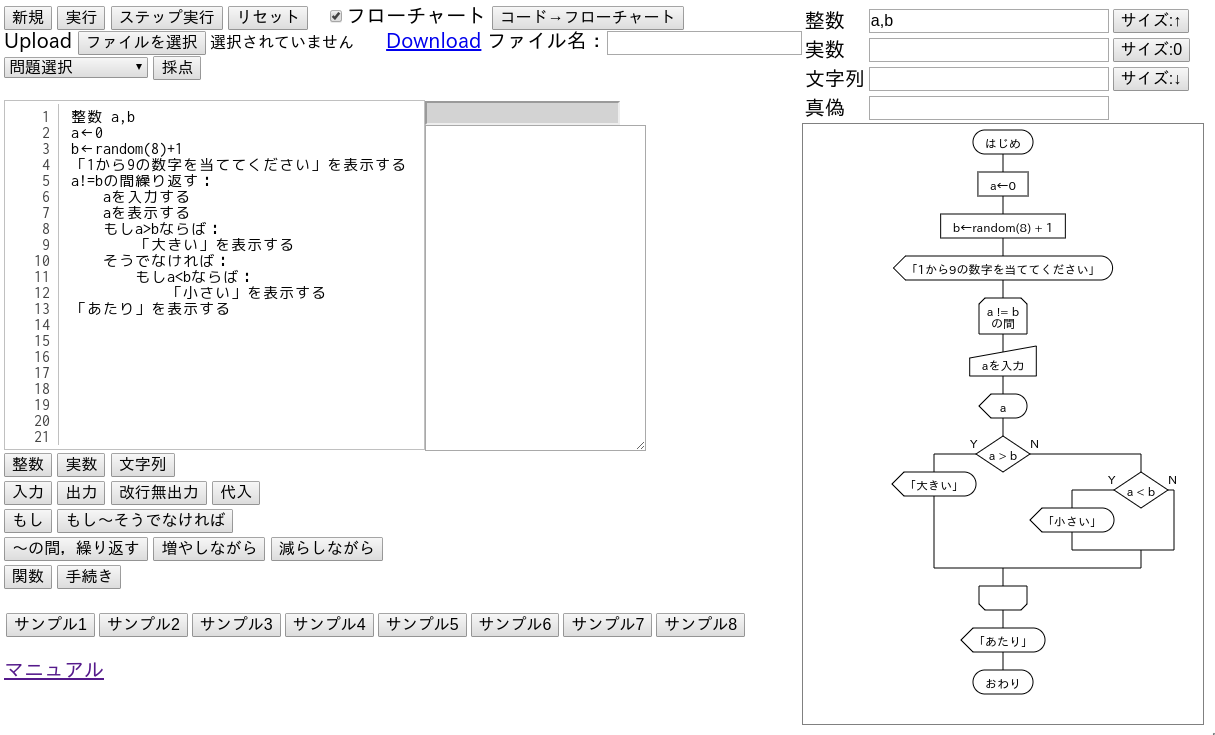
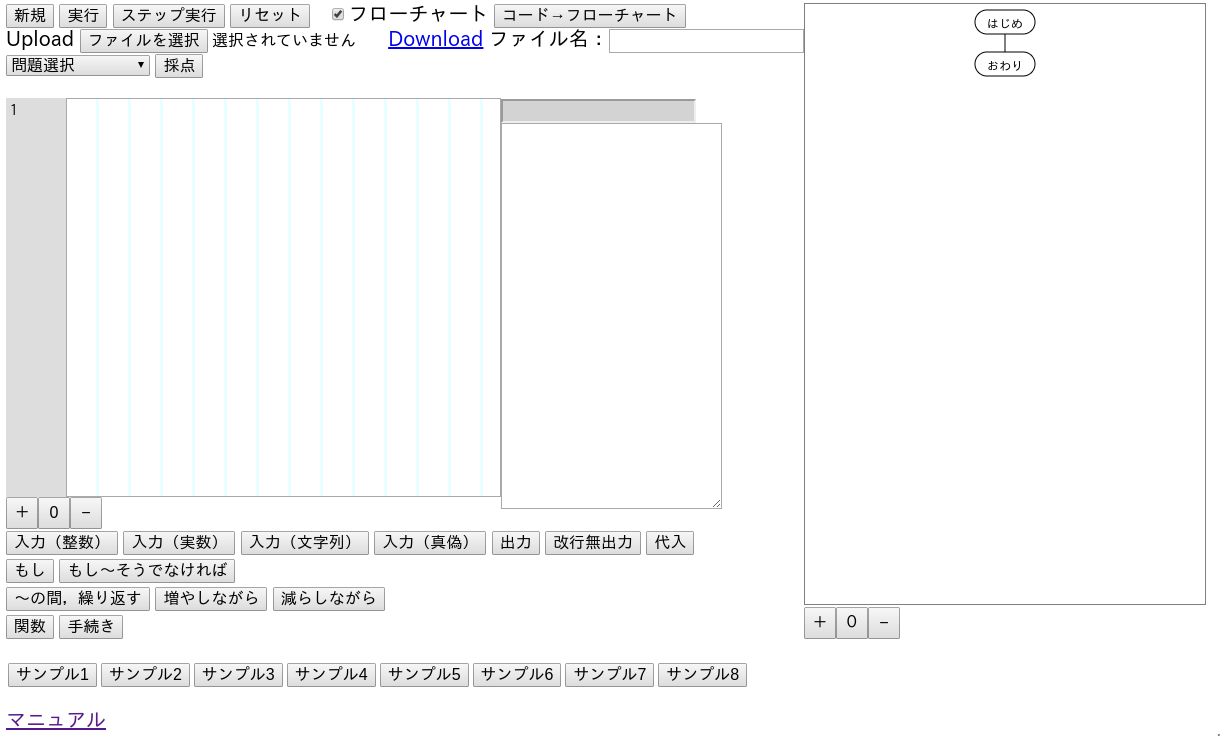
表示の調整など。

diff --git a/index.html b/index.html
@@ -39,7 +39,7 @@
 			<p id="quiz_question"></p>
 		</div>
 		<div id="Source_area">
-			<textarea id="sourceTextarea" rows="20" cols="60" onmouseup="mouseClick();" spellcheck="false"></textarea>
+			<textarea id="sourceTextarea" rows="21" cols="60" onmouseup="mouseClick();" spellcheck="false"></textarea>
 			<button type="button" id="font_up"   onclick='font_size(1);' style="width:2em;height:2em;">＋</button>
 			<button type="button" id="font_zero" onclick='font_size(0);' style="width:2em;height:2em;">0</button>
 			<button type="button" id="font_down" onclick='font_size(-1);' style="width:2em;height:2em;">−</button>
@@ -49,9 +49,11 @@
 			<textarea id="resultTextarea" rows="20" cols="25" readonly></textarea>
 		</div>
 		<div id="EditButtons">
-			<button type="button" class="editButton" onclick='editButton("整数 《変数》");'>整数</button>
-			<button type="button" class="editButton" onclick='editButton("実数 《変数》");'>実数</button>
-			<button type="button" class="editButton" onclick='editButton("文字列 《変数》");'>文字列</button> <br>
+			<div id="variableButtons">
+				<button type="button" class="editButton" onclick='editButton("整数 《変数》");'>整数</button>
+				<button type="button" class="editButton" onclick='editButton("実数 《変数》");'>実数</button>
+				<button type="button" class="editButton" onclick='editButton("文字列 《変数》");'>文字列</button> <br>
+			</div>
 			<button type="button" class="editButton" onclick='editButton("《変数》に整数を入力する");'>入力（整数）</button>
 			<button type="button" class="editButton" onclick='editButton("《変数》に実数を入力する");'>入力（実数）</button>
 			<button type="button" class="editButton" onclick='editButton("《変数》に文字列を入力する");'>入力（文字列）</button>
@@ -73,15 +75,15 @@
 	</div>
 	<div id="Flowchart_area">
 		<table id="variables">
-			<tr><td>整数</td><td><input type="text" size="25" id="variable_int" onchange="variableChange();"></td>
-				<td><button type="button" onclick="changeSize(1);">サイズ:↑</button></td></tr>
-			<tr><td>実数</td><td><input type="text" size="25" id="variable_float" onchange="variableChange();"></td>
-				<td><button type="button" onclick="changeSize(0);">サイズ:0</button></td></tr>
-			<tr><td>文字列</td><td><input type="text" size="25" id="variable_string" onchange="variableChange();"></td>
-				<td><button type="button" onclick="changeSize(-1);">サイズ:↓</button></td></tr>
+			<tr><td>整数</td><td><input type="text" size="25" id="variable_int" onchange="variableChange();"></td></tr>
+			<tr><td>実数</td><td><input type="text" size="25" id="variable_float" onchange="variableChange();"></td></tr>
+			<tr><td>文字列</td><td><input type="text" size="25" id="variable_string" onchange="variableChange();"></td></tr>
 			<tr><td>真偽</td><td><input type="text" size="25" id="variable_bool" onchange="variableChange();"></td></tr>
 		</table>
-		<canvas id="flowchart" width="400px" height="600px"></canvas>
+		<canvas id="flowchart" width="400px" height="600px"></canvas><br>
+		<button type="button" onclick="changeSize(1);" style="width:2em;height:2em;float:left;">＋</button>
+		<button type="button" onclick="changeSize(0);" style="width:2em;height:2em;float:left;">０</button>
+		<button type="button" onclick="changeSize(-1);" style="width:2em;height:2em;float:left;">−</button>
 	</div>
 	<canvas id="canvas"></canvas>
 <div id="input"></div>

diff --git a/run1.js b/run1.js
@@ -2438,8 +2438,7 @@ var Input = function (_Statement12) {
 						va.run();
 						var assign = null;
 						var re = /^(0+|false|偽|)$/i;
-						if (this.type == typeOfValue.typeInt) assign = new Assign(va, new IntValue(Number(toHalf(vl, this.loc)), this.loc), this.loc);else if (this.type == typeOfValue.typeFloat) assign = new Assign(va, new FloatValue(Number(toHalf(vl, this.loc)), this.loc), this.loc);else if (this.type == typeOfValue.typeString) assign = new Assign(va, new StringValue(vl + '', this.loc), this.loc);else if (this.type == typeOfValue.typeBoolean) assign = new Assign(va, new BooleanValue(!re.exec(vl), this.loc), this.loc);
-						assign.run();
+						if (this.type == typeOfValue.typeInt) assign = new Assign(va, new IntValue(Number(toHalf(vl, this.loc)), this.loc), this.loc);else if (this.type == typeOfValue.typeFloat) assign = new Assign(va, new FloatValue(Number(toHalf(vl, this.loc)), this.loc), this.loc);else if (this.type == typeOfValue.typeString) assign = new Assign(va, new StringValue(vl + '', this.loc), this.loc);else if (this.type == typeOfValue.typeBoolean) assign = new Assign(va, new BooleanValue(!re.exec(vl), this.loc), this.loc);assign.run();
 						code[0].stack[0].index = index + 1;
 					} else throw new RuntimeError(this.first_line, '必要以上の入力を求めています。');
 				}
@@ -5450,12 +5449,16 @@ onload = function onload() {
 	var loadButton = document.getElementById("loadButton");
 	var file_prefix = document.getElementById("file_prefix");
 	var flowchart_canvas = document.getElementById("flowchart");
-	var resultArea = document.getElementById("resultArea");
+	// var resultArea = document.getElementById("resultArea");
 	$("#sourceTextarea").bcralnit();
 	sourceTextArea.onchange = function () {
 		makeDirty(true);
 	};
 	makeDirty(false);
+	if (setting.var_declaration == 1) {
+		document.getElementById("variables").style.display = 'none';
+		document.getElementById("variableButtons").style.display = 'none';
+	}
 	textarea = resultTextArea;
 	runButton.onclick = function () {
 		if (run_flag && !step_flag) {

diff --git a/run.js b/run.js
@@ -1982,8 +1982,7 @@ class Input extends Statement
 				if(this.type == typeOfValue.typeInt)assign = new Assign(va, new IntValue(Number(toHalf(vl, this.loc)), this.loc), this.loc);
 				else if(this.type == typeOfValue.typeFloat)assign = new Assign(va, new FloatValue(Number(toHalf(vl, this.loc)), this.loc), this.loc);
 				else if(this.type == typeOfValue.typeString) assign = new Assign(va, new StringValue(vl + '', this.loc), this.loc);
-				else if(this.type == typeOfValue.typeBoolean) assign = new Assign(va, new BooleanValue(!re.exec(vl), this.loc), this.loc);
-				assign.run();
+				else if(this.type == typeOfValue.typeBoolean) assign = new Assign(va, new BooleanValue(!re.exec(vl), this.loc), this.loc);				assign.run();
 				code[0].stack[0].index = index + 1;
 			}
 			else throw new RuntimeError(this.first_line, '必要以上の入力を求めています。');
@@ -4675,12 +4674,16 @@ onload = function(){
 	var loadButton    = document.getElementById("loadButton");
 	var file_prefix   = document.getElementById("file_prefix");
 	var flowchart_canvas = document.getElementById("flowchart");
-	var resultArea = document.getElementById("resultArea");
+	// var resultArea = document.getElementById("resultArea");
 	$("#sourceTextarea").bcralnit();
 	sourceTextArea.onchange = function(){
 		makeDirty(true);
 	}
 	makeDirty(false);
+	if(setting.var_declaration == 1) {
+		document.getElementById("variables").style.display = 'none';
+		document.getElementById("variableButtons").style.display = 'none';
+	}
 	textarea = resultTextArea;
 	runButton.onclick = function(){
 		if(run_flag && !step_flag)
